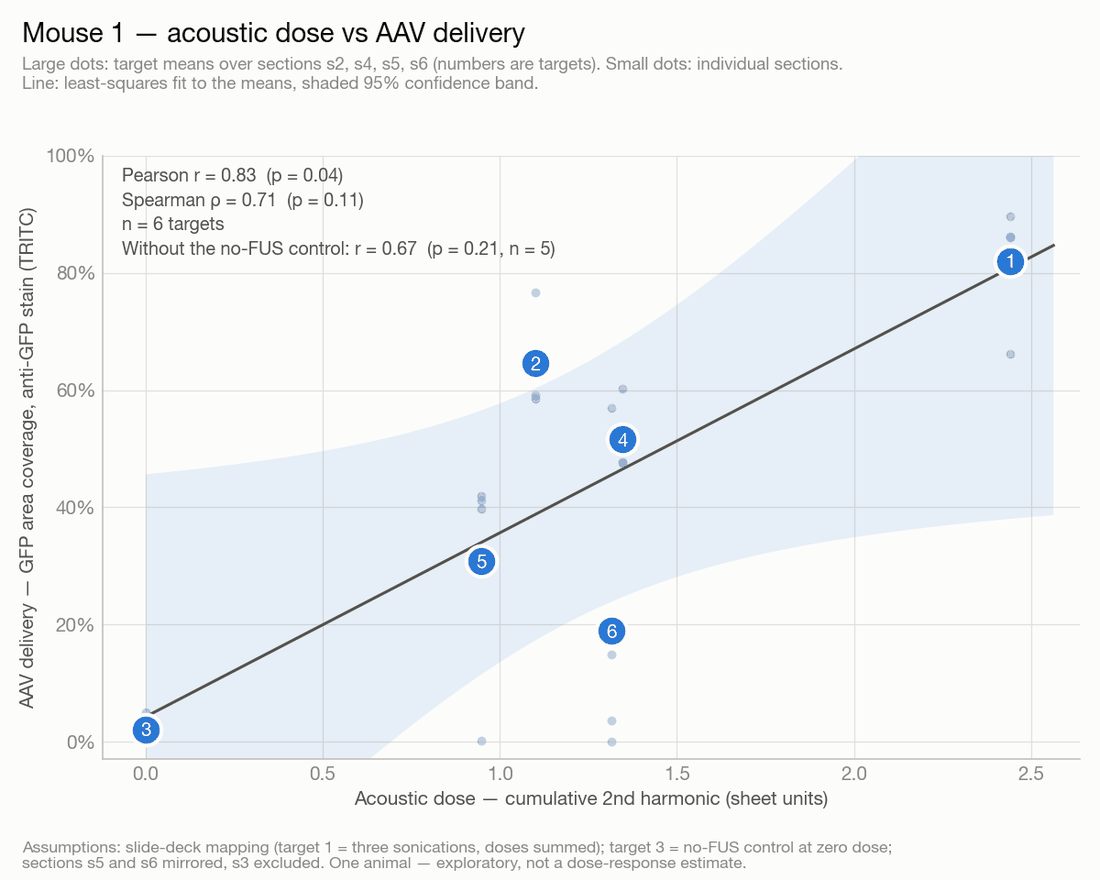
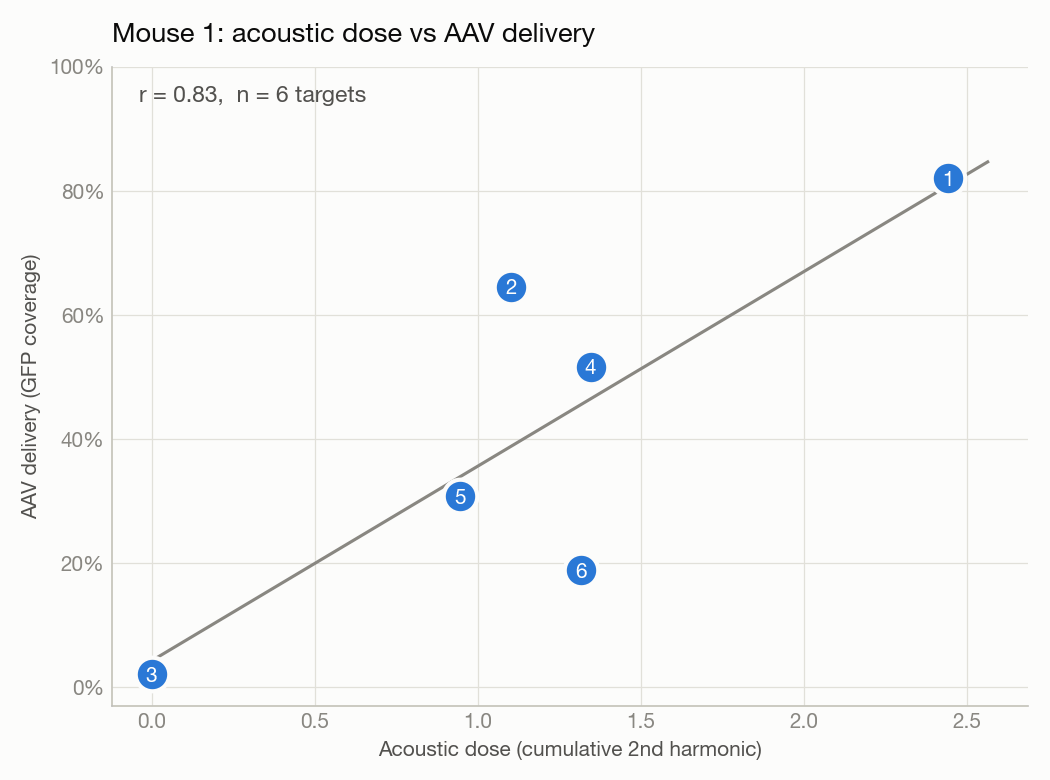
some figure changes

diff --git a/scripts/mouse01_dose_vs_coverage.py b/scripts/mouse01_dose_vs_coverage.py
@@ -8,7 +8,7 @@ against dose. Writes to ``results/histology/``:
 
   mouse01_dose_vs_coverage.{csv,png}   both mappings x both dose measures x both channels
   mouse01_dose_delivery_scatter.png    one correlation: measured dose vs TRITC
-                                       coverage, deck mapping
+                                       coverage, deck mapping, least-squares line
 
 This is exploratory. Every join below rests on an assumption that has not been
 confirmed with the lab:
@@ -204,71 +204,37 @@ def plot(df: pd.DataFrame):
     return fig
 
 
-def plot_scatter(df: pd.DataFrame, sections: pd.DataFrame, mapping: str = "deck",
+def plot_scatter(df: pd.DataFrame, mapping: str = "deck",
                  xcol: str = "cum_2nd_harmonic", channel: str = "TRITC"):
-    """Single dose-delivery correlation: target means, per-section values, OLS fit."""
+    """Single dose-delivery correlation: one dot per target, least-squares line."""
     _style()
     sub = df[df.mapping == mapping].sort_values("target")
     x, y = sub[xcol].to_numpy(), sub[f"{channel}_mean"].to_numpy()
-    n = len(x)
-    c = SERIES[channel]
 
-    fig, ax = plt.subplots(figsize=(8, 6.4), facecolor=SURFACE)
+    fig, ax = plt.subplots(figsize=(7, 5.2), facecolor=SURFACE)
     _clean_axes(ax)
 
-    # OLS on the target means, with a 95% band for the mean response
     fit = stats.linregress(x, y)
-    gx = np.linspace(0, x.max() * 1.05, 200)
-    resid_sd = np.sqrt(np.sum((y - (fit.intercept + fit.slope * x)) ** 2) / (n - 2))
-    half = stats.t.ppf(0.975, n - 2) * resid_sd * np.sqrt(
-        1 / n + (gx - x.mean()) ** 2 / np.sum((x - x.mean()) ** 2))
-    line = fit.intercept + fit.slope * gx
-    ax.fill_between(gx, line - half, line + half, color=c, alpha=0.10, linewidth=0, zorder=1)
-    ax.plot(gx, line, color=INK_2, linewidth=1.5, zorder=2)
+    gx = np.array([0, x.max() * 1.05])
+    ax.plot(gx, fit.intercept + fit.slope * gx, color=MUTED, linewidth=1.5, zorder=2)
 
-    # Individual sections behind the means
-    dose = dict(zip(sub.target, sub[xcol]))
-    s = sections[sections.channel == channel]
-    ax.scatter(s.target.map(dose), s.coverage, s=22, color=c, alpha=0.35,
-               linewidths=0, zorder=3)
-
-    ax.scatter(x, y, s=260, color=c, edgecolors=SURFACE, linewidths=2, zorder=4)
+    ax.scatter(x, y, s=260, color=SERIES[channel], edgecolors=SURFACE, linewidths=2, zorder=3)
     for r in sub.itertuples():
         ax.annotate(str(r.target), (getattr(r, xcol), getattr(r, f"{channel}_mean")),
                     ha="center", va="center_baseline", fontsize=10, weight="bold",
-                    color="#ffffff", zorder=5)
+                    color="#ffffff", zorder=4)
 
-    pr = stats.pearsonr(x, y)
-    sr = stats.spearmanr(x, y)
-    keep = sub.target != 3
-    pr5 = stats.pearsonr(x[keep], y[keep])
-    ax.text(0.02, 0.98,
-            f"Pearson r = {pr.statistic:.2f}  (p = {pr.pvalue:.2f})\n"
-            f"Spearman ρ = {sr.statistic:.2f}  (p = {sr.pvalue:.2f})\n"
-            f"n = {n} targets\n"
-            f"Without the no-FUS control: r = {pr5.statistic:.2f}  (p = {pr5.pvalue:.2f}, n = {n - 1})",
-            transform=ax.transAxes, ha="left", va="top", fontsize=9.5, color=INK_2,
-            linespacing=1.5)
+    ax.text(0.03, 0.97, f"r = {fit.rvalue:.2f},  n = {len(x)} targets",
+            transform=ax.transAxes, ha="left", va="top", fontsize=11, color=INK_2)
 
-    ax.set_xlim(-0.05 * x.max(), x.max() * 1.08)
+    ax.set_xlim(-0.05 * x.max(), x.max() * 1.1)
     ax.set_ylim(-0.03, 1.0)
     ax.yaxis.set_major_formatter(matplotlib.ticker.PercentFormatter(1.0))
-    ax.set_xlabel("Acoustic dose — cumulative 2nd harmonic (sheet units)")
-    ax.set_ylabel("AAV delivery — GFP area coverage, anti-GFP stain (TRITC)")
-    fig.suptitle("Mouse 1 — acoustic dose vs AAV delivery", x=0.02, y=0.975,
-                 ha="left", fontsize=14, weight="bold")
-    fig.text(0.02, 0.935,
-             "Large dots: target means over sections s2, s4, s5, s6 (numbers are targets). "
-             "Small dots: individual sections.\nLine: least-squares fit to the means, "
-             "shaded 95% confidence band.",
-             fontsize=9, color=MUTED, va="top")
-    fig.text(0.02, 0.01,
-             "Assumptions: slide-deck mapping (target 1 = three sonications, doses summed); "
-             "target 3 = no-FUS control at zero dose;\n"
-             "sections s5 and s6 mirrored, s3 excluded. One animal — exploratory, not a "
-             "dose-response estimate.",
-             fontsize=8.5, color=MUTED, va="bottom")
-    fig.tight_layout(rect=(0, 0.06, 1, 0.905))
+    ax.set_xlabel("Acoustic dose (cumulative 2nd harmonic)")
+    ax.set_ylabel("AAV delivery (GFP coverage)")
+    ax.set_title("Mouse 1: acoustic dose vs AAV delivery", loc="left",
+                 fontsize=13, weight="bold", pad=12)
+    fig.tight_layout()
     return fig
 
 
@@ -278,7 +244,7 @@ def main() -> None:
     OUT.parent.mkdir(parents=True, exist_ok=True)
     df.round(4).to_csv(OUT.with_suffix(".csv"), index=False)
     plot(df).savefig(OUT.with_suffix(".png"), dpi=150, facecolor=SURFACE)
-    plot_scatter(df, sections).savefig(SCATTER, dpi=150, facecolor=SURFACE)
+    plot_scatter(df).savefig(SCATTER, dpi=150, facecolor=SURFACE)
     print(df[["mapping", "target", "recordings", "cum_2nd_harmonic", "bursts_x_goal",
               "TRITC_mean", "FITC_mean"]].round(3).to_string(index=False))
     print(f"\nwrote {OUT.with_suffix('.png')}\nwrote {SCATTER}")

diff --git a/docs/mouse01-dose-delivery.md b/docs/mouse01-dose-delivery.md
@@ -282,16 +282,15 @@ targets.
 
 The scatter at the top uses **mapping A, measured dose and TRITC**:
 
-- **Large dots:** target means, with the target number inside.
-- **Small dots:** each section's individual value.
+- **Dots:** one per target, at the mean of the four sections, with the target number
+  inside. The spread across sections is in the four-panel figure and the table in 2g.
 - **Line:** ordinary least squares on the six target means.
-- **Shaded band:** 95% confidence interval for the fitted mean
-  (t distribution, 4 degrees of freedom).
-- **Statistics:** `scipy.stats.pearsonr` and `spearmanr` on the six target means.
-  Individual sections are not treated as independent points.
+- **Statistics:** `scipy.stats.pearsonr` and `spearmanr` on the six target means, so
+  individual sections are not treated as independent points. The plot shows only r;
+  the other values are in the table under [The result](#the-result).
 
-Colors follow the project's dataviz palette. TRITC and FITC are also told apart by
-filled vs. hollow markers.
+Colors follow the project's dataviz palette. In the four-panel figure, TRITC and FITC
+are also told apart by filled vs. hollow markers.
 
 ---
 
